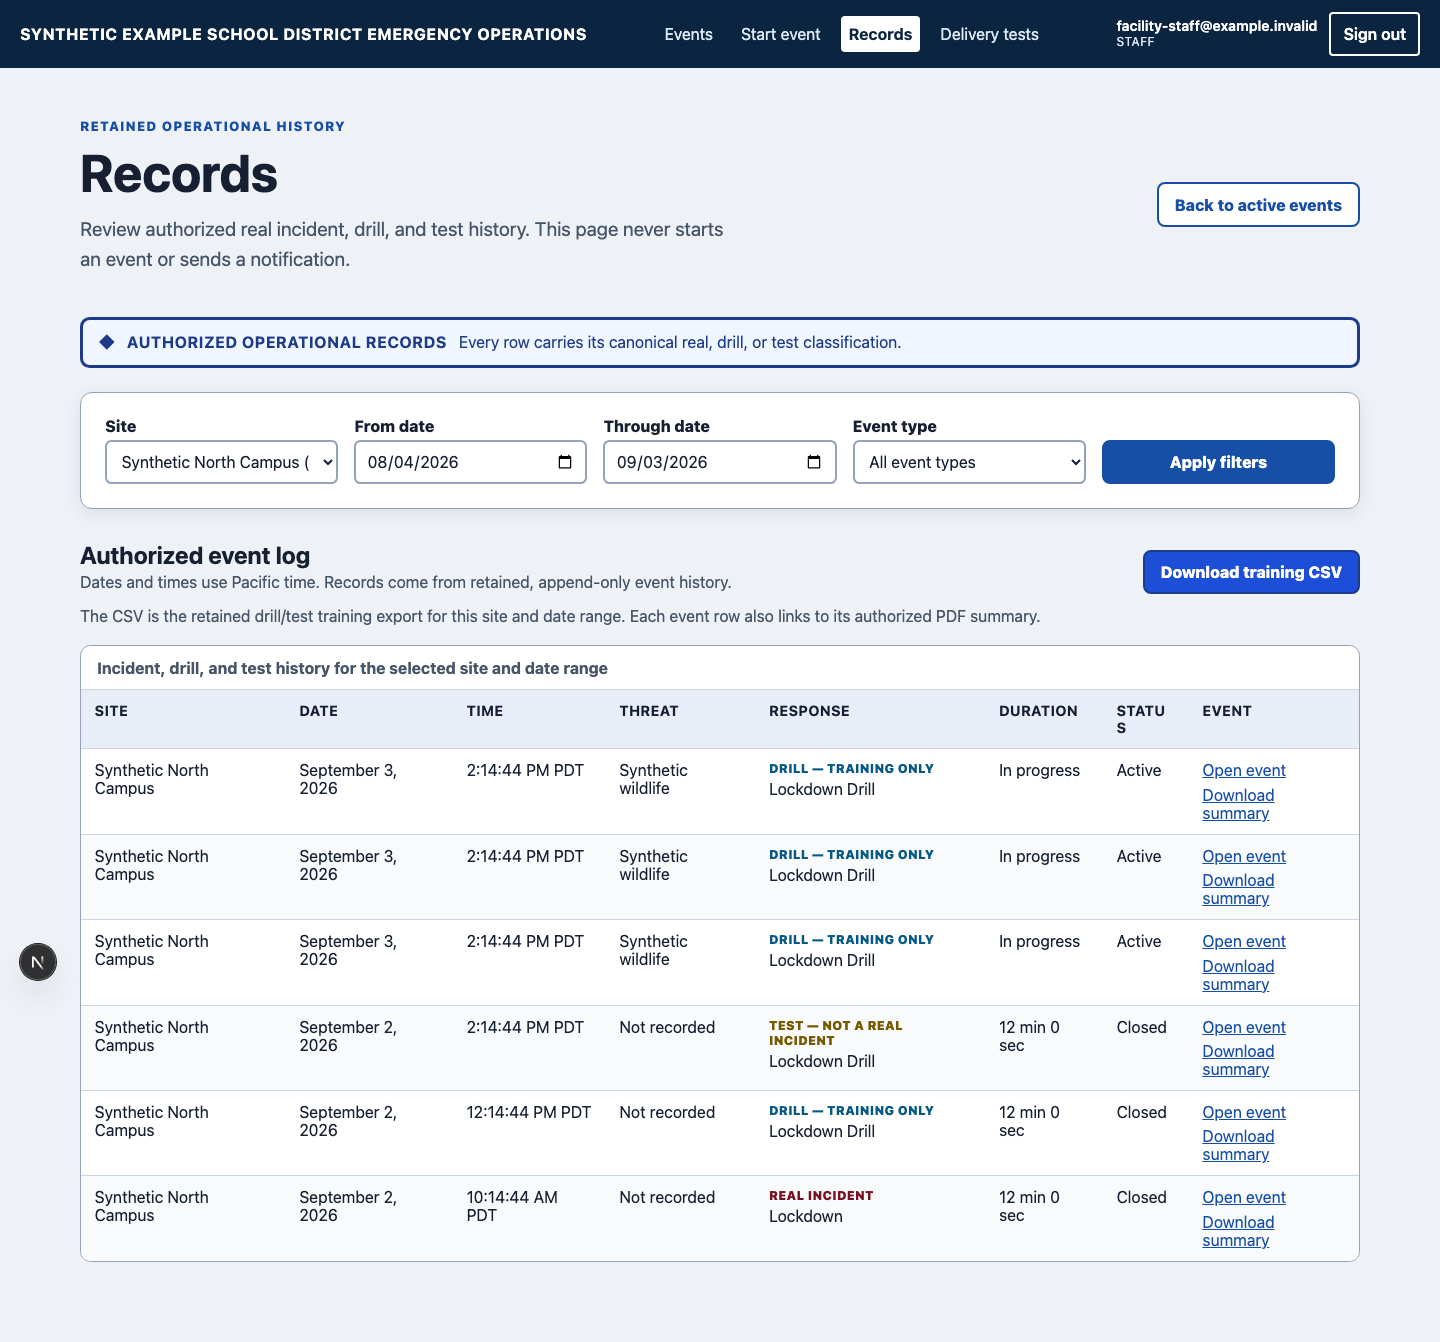
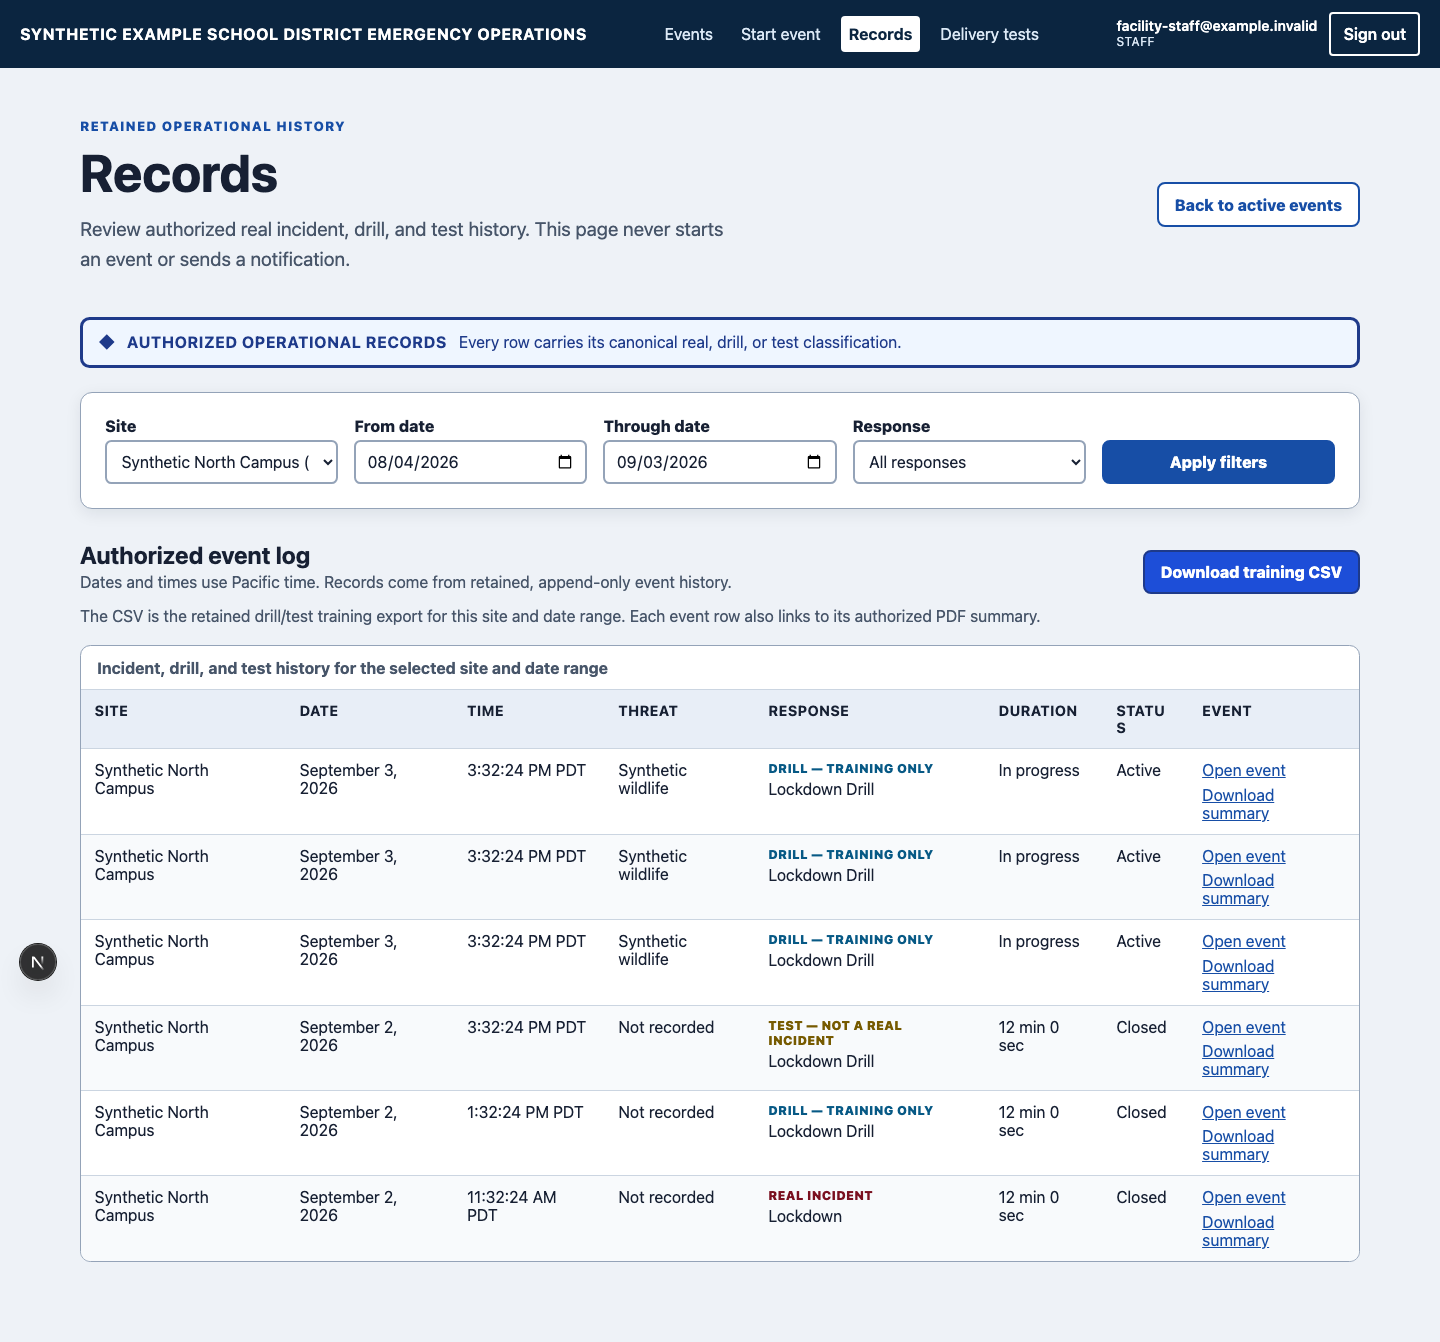
refactor(admin): call the configured objects responses everywhere an operator reads
An operator now names the threat first and the response second, so the admin
area that configures those responses says so. This is wording only: routes,
API paths, contract names, database identifiers, and capability IDs are
unchanged, and `/event-types` and `/event-types/api` still answer exactly as
before.

- The navigation entry, the page title and heading, the browser tab title and
  meta description, the editor heading, the picker label and its "create"
  option, the mode banner, the retained-change recovery copy, and the
  administrator-access landing page all say response or responses.
- The records filter reads "Response" and "All responses" beside the Response
  column that arrived with the threat change, and the delivery-test console
  labels the same identifier "Response version ID". Both were left saying
  "event type" by the earlier change and would have read as two names for one
  thing.
- `docs/runbooks/first-run.md` renames the admin section and corrects the
  reference-seed counts, which the new response families changed from 8, 8,
  and 72 to 12, 12, and 108.

Tests:
- The event-types suite asserts the navigation label and the rendered
  administrator-access document, which now says "manage responses and message
  templates" and contains no "event type".
- A new browser flow opens the admin page and asserts the heading, the current
  navigation entry, the "Response" picker label, an axe-clean render, that the
[…]

diff --git a/packages/server/app/(admin)/event-types/manage/event-type-admin.tsx b/packages/server/app/(admin)/event-types/manage/event-type-admin.tsx
@@ -1841,11 +1841,13 @@ function EventTypeEditor({
         {draft !== null && item === null
           ? `Continue unpublished ${draft.name}`
           : item === null
-            ? 'Create event type'
+            ? 'Create response'
             : `Edit ${item.latestVersion.name}`}
       </h2>
       <p className={`mode-banner ${mode}`}>
-        {mode === 'real' ? 'REAL INCIDENT TYPE' : 'DRILL — TRAINING ONLY TYPE'}
+        {mode === 'real'
+          ? 'REAL INCIDENT RESPONSE'
+          : 'DRILL — TRAINING ONLY RESPONSE'}
       </p>
       <p className="classification-note">
         Real-versus-drill mode is immutable. The renderer—not this form—starts
@@ -2223,15 +2225,15 @@ export function EventTypeAdmin({
         {recoveryOutsideFilter ? (
           <div className="error-summary" role="alert">
             <p>
-              A retained change belongs to an event type hidden by the current
+              A retained change belongs to a response hidden by the current
               filter. No new change can be sent until it is resolved.
             </p>
             <a href="/event-types/manage">
-              Show all event types and open the retained change
+              Show all responses and open the retained change
             </a>
           </div>
         ) : null}
-        <label htmlFor="event-type-picker">Event type</label>
+        <label htmlFor="event-type-picker">Response</label>
         <select
           id="event-type-picker"
           onChange={(event) => setSelectedId(event.target.value)}
@@ -2244,7 +2246,7 @@ export function EventTypeAdmin({
               {item.latestVersion.version}
             </option>
           ))}
-          <option value="new">Create a new event type</option>
+          <option value="new">Create a new response</option>
         </select>
         <p className="field-help">
           Real and drill variants are separate immutable identities. Publishing

diff --git a/packages/server/app/(admin)/event-types/event-types.test.tsx b/packages/server/app/(admin)/event-types/event-types.test.tsx
@@ -40,6 +40,7 @@ import {
 } from '../../../lib/notify/render';
 import { eventTypeLandingResponse } from './landing';
 import { PreviewCards, TemplateFields } from './manage/event-type-admin';
+import { NAV_DESTINATIONS } from '../../nav/primary-nav-model';
 
 const IDS = {
   user: '10000000-0000-4000-8000-000000000001',
@@ -1289,6 +1290,24 @@ describe('admin UI semantics', () => {
     expect(markup).toContain('SMS');
     expect(markup).toContain('Email');
     expect(markup.match(/\[DRILL\]/g)?.length).toBeGreaterThanOrEqual(5);
+  });
+
+  test('calls the configured objects responses everywhere an operator reads', async () => {
+    // Routes, API paths, and identifiers keep the event-type names; only the
+    // words an operator reads change. The live admin page is asserted by the
+    // operator-shell-navigation browser flow.
+    expect(
+      NAV_DESTINATIONS.find(({ href }) => href === '/event-types')?.label,
+    ).toBe('Responses');
+    const forbidden = await eventTypeLandingResponse(
+      'https://eoc.example.test/event-types',
+      authenticatedSession(['staff']),
+      new CountingStore(),
+    );
+    expect(forbidden.status).toBe(403);
+    const markup = await forbidden.text();
+    expect(markup).toContain('manage responses and message templates');
+    expect(markup.toLowerCase()).not.toContain('event type');
   });
 
   test('ships visible keyboard focus and minimum target sizing in owned CSS', () => {

diff --git a/packages/server/e2e/operator-shell-navigation.flow.ts b/packages/server/e2e/operator-shell-navigation.flow.ts
@@ -9,7 +9,7 @@ const DISTRICT_ADMIN_DESTINATIONS = [
   ['Delivery tests', '/delivery-tests', 'Monthly live delivery test'],
   ['Readiness', '/admin', 'Deployment readiness'],
   ['Schools', '/facilities', /^Facilities, neighborhoods,/u],
-  ['Event types', '/event-types', 'Event types and message templates'],
+  ['Responses', '/event-types', 'Responses and message templates'],
   ['Access', '/access', 'Access groups and the roles they grant'],
   ['Devices', '/devices', 'Device sessions'],
   ['Notifications', '/integrations', 'Integrations administration'],
@@ -52,6 +52,20 @@ test.describe('operator-shell-navigation', () => {
       ).toHaveAttribute('aria-current', 'page');
       await expectAxeClean(page);
     }
+
+    // The responses admin is where the "event type" wording used to live, so
+    // this navigation also proves an operator reads only "response" there.
+    await page.goto('/event-types/manage');
+    await expect(
+      page.getByRole('heading', {
+        level: 1,
+        name: 'Responses and message templates',
+      }),
+    ).toBeVisible({ timeout: 30_000 });
+    await expect(page.getByLabel('Response', { exact: true })).toBeVisible();
+    expect(
+      (await page.locator('main#main-content').innerText()).toLowerCase(),
+    ).not.toContain('event type');
 
     await page.goto('/');
     await page.screenshot({

diff --git a/packages/server/e2e/synthetic-drill-lifecycle.flow.ts b/packages/server/e2e/synthetic-drill-lifecycle.flow.ts
@@ -130,13 +130,16 @@ test.describe('synthetic-drill-lifecycle', () => {
       path: evidencePath('synthetic-drill-all-clear-review-mobile-390.png'),
       fullPage: true,
     });
-    // The dialog re-renders when its preview settles, and that render moves
-    // focus back to Cancel on the next animation frame. Wait for both before
-    // moving focus, or Shift+Tab races the refocus and lands nowhere.
+    // The dialog re-renders when its preview settles: React replaces the
+    // action row, so the Cancel button the operator was on is a different
+    // element and focus briefly rests on nothing until the next animation
+    // frame restores it. What this step proves is the dialog's tab order, so
+    // it waits for the settled render and then starts from Cancel rather than
+    // racing that restore.
     await expect(
       endDialog.getByRole('button', { name: 'End event and notify staff' }),
     ).toBeEnabled();
-    await expect(endCancel).toBeFocused();
+    await endCancel.focus();
     await page.keyboard.press('Shift+Tab');
     await expect(
       endDialog.getByRole('button', { name: 'End event and notify staff' }),

diff --git a/packages/server/e2e/issue-32-accessibility.flow.ts b/packages/server/e2e/issue-32-accessibility.flow.ts
@@ -286,6 +286,11 @@ async function openDrillConfirmation(
     page.getByRole('link', { name: 'Synthetic wildlife', exact: true }),
   );
   await expect(page).toHaveURL(/\/start\?.*threatId=/u);
+  // The client navigation swaps the document; scanning before the next step
+  // has rendered can inject axe into a page that has no head yet.
+  await expect(
+    page.getByRole('heading', { level: 1, name: 'Choose response' }),
+  ).toBeVisible({ timeout: 30_000 });
   if (options.scanAxe !== false) await expectAxeClean(page);
   await activateByKeyboard(
     page,
@@ -584,6 +589,9 @@ test.describe('issue-32-accessibility-evidence', () => {
     await page.keyboard.type(REAL_THREAT_DETAIL);
     await page.keyboard.press('Enter');
     await expect(page).toHaveURL(/\/start\?.*threatDetail=/u);
+    await expect(
+      page.getByRole('heading', { level: 1, name: 'Choose response' }),
+    ).toBeVisible({ timeout: 30_000 });
     await expectAxeClean(page);
     const lockdown = page.locator('a.choice-card').filter({
       has: page.getByText('Lockdown', { exact: true }),

diff --git a/packages/server/app/(admin)/event-types/landing.ts b/packages/server/app/(admin)/event-types/landing.ts
@@ -8,7 +8,7 @@ import {
 const FORBIDDEN_DOCUMENT = `<!doctype html>
 <html lang="en">
   <head><meta charset="utf-8"><meta name="viewport" content="width=device-width"><title>Administrator access required | PSD EOC</title></head>
-  <body><main><h1>Administrator access required</h1><p role="alert">Your PSD EOC session is active, but only administrators can manage event types and message templates.</p><p>No event was started and no notification was sent.</p></main></body>
+  <body><main><h1>Administrator access required</h1><p role="alert">Your PSD EOC session is active, but only administrators can manage responses and message templates.</p><p>No event was started and no notification was sent.</p></main></body>
 </html>`;
 
 /** Capability-backed landing response, separated from the Next route exports. */

diff --git a/packages/server/app/(app)/records/records-view.tsx b/packages/server/app/(app)/records/records-view.tsx
@@ -183,13 +183,13 @@ export function RecordsView({
             />
           </div>
           <div className="filter-field">
-            <label htmlFor="records-event-type">Event type</label>
+            <label htmlFor="records-event-type">Response</label>
             <select
               defaultValue={filters.eventTypeId ?? ''}
               id="records-event-type"
               name="eventTypeId"
             >
-              <option value="">All event types</option>
+              <option value="">All responses</option>
               {eventTypes.map(({ eventType, latestVersion }) => (
                 <option key={eventType.id} value={eventType.id}>
                   {latestVersion.name}

diff --git a/packages/server/app/(admin)/event-types/manage/page.tsx b/packages/server/app/(admin)/event-types/manage/page.tsx
@@ -67,7 +67,7 @@ export default async function EventTypesAdminPage({
     <main id="main-content" tabIndex={-1}>
       <header className="page-heading">
         <div>
-          <h1>Event types and message templates</h1>
+          <h1>Responses and message templates</h1>
           <p className="lede">
             Draft and preview push, SMS, and email wording. Publishing creates a
             new immutable version; events that used an older version keep

diff --git a/packages/server/app/(admin)/event-types/layout.tsx b/packages/server/app/(admin)/event-types/layout.tsx
@@ -5,8 +5,8 @@ import './styles.css';
 import { OperatorShell } from '../../nav/operator-shell';
 
 export const metadata: Metadata = {
-  title: 'Event types | Emergency operations',
-  description: 'Administer versioned event types and notification wording.',
+  title: 'Responses | Emergency operations',
+  description: 'Administer versioned responses and notification wording.',
 };
 
 export default function EventTypesLayout({

diff --git a/packages/server/app/(app)/delivery-tests/delivery-test-console.tsx b/packages/server/app/(app)/delivery-tests/delivery-test-console.tsx
@@ -274,7 +274,7 @@ export function DeliveryTestPreviewConfirmation({
           </dd>
           <dt>Target version</dt>
           <dd>{preview.targetSet.version}</dd>
-          <dt>Event type version ID</dt>
+          <dt>Response version ID</dt>
           <dd className="code-value">
             <code>{preview.activationPreview.eventTypeVersion.id}</code>
           </dd>

diff --git a/packages/server/app/nav/primary-nav-model.ts b/packages/server/app/nav/primary-nav-model.ts
@@ -33,7 +33,7 @@ export const NAV_DESTINATIONS: readonly NavDestination[] = Object.freeze([
   { href: '/facilities', label: 'Schools', authorization: 'district-admin' },
   {
     href: '/event-types',
-    label: 'Event types',
+    label: 'Responses',
     authorization: 'district-admin',
   },
   { href: '/access', label: 'Access', authorization: 'district-admin' },

diff --git a/packages/server/app/nav/primary-nav-model.test.ts b/packages/server/app/nav/primary-nav-model.test.ts
@@ -33,7 +33,7 @@ describe('shared operator navigation model', () => {
       'Delivery tests',
       'Readiness',
       'Schools',
-      'Event types',
+      'Responses',
       'Access',
       'Devices',
       'Notifications',
